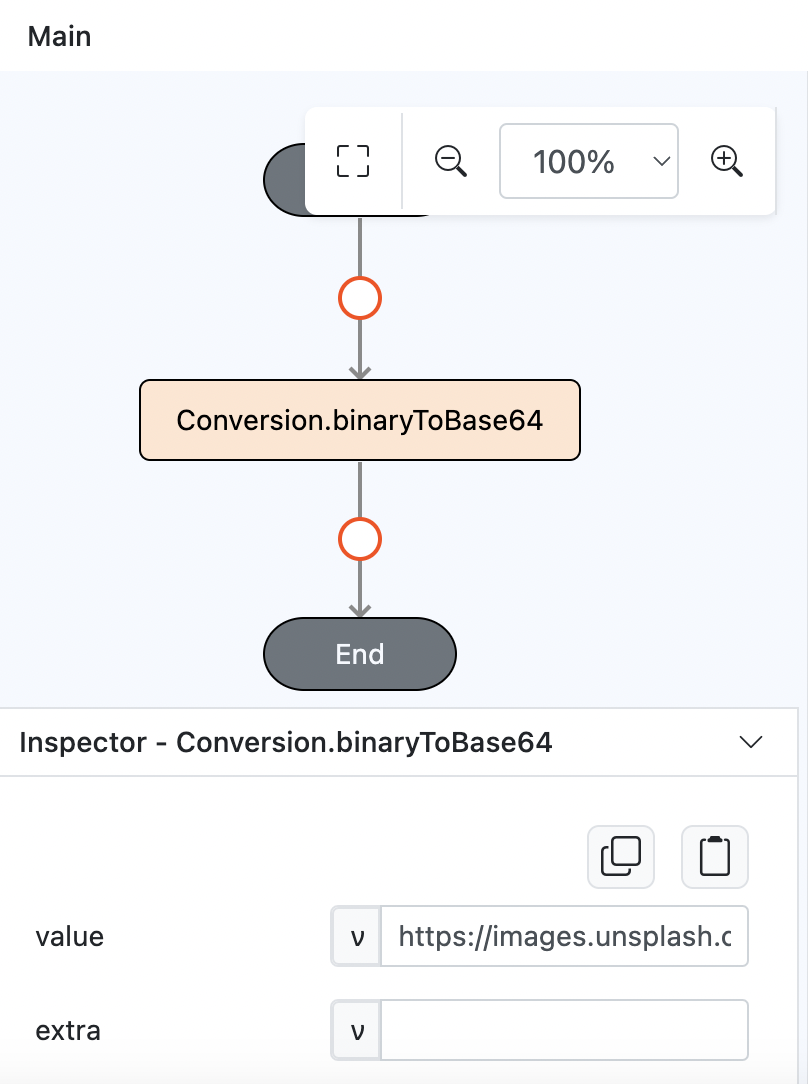
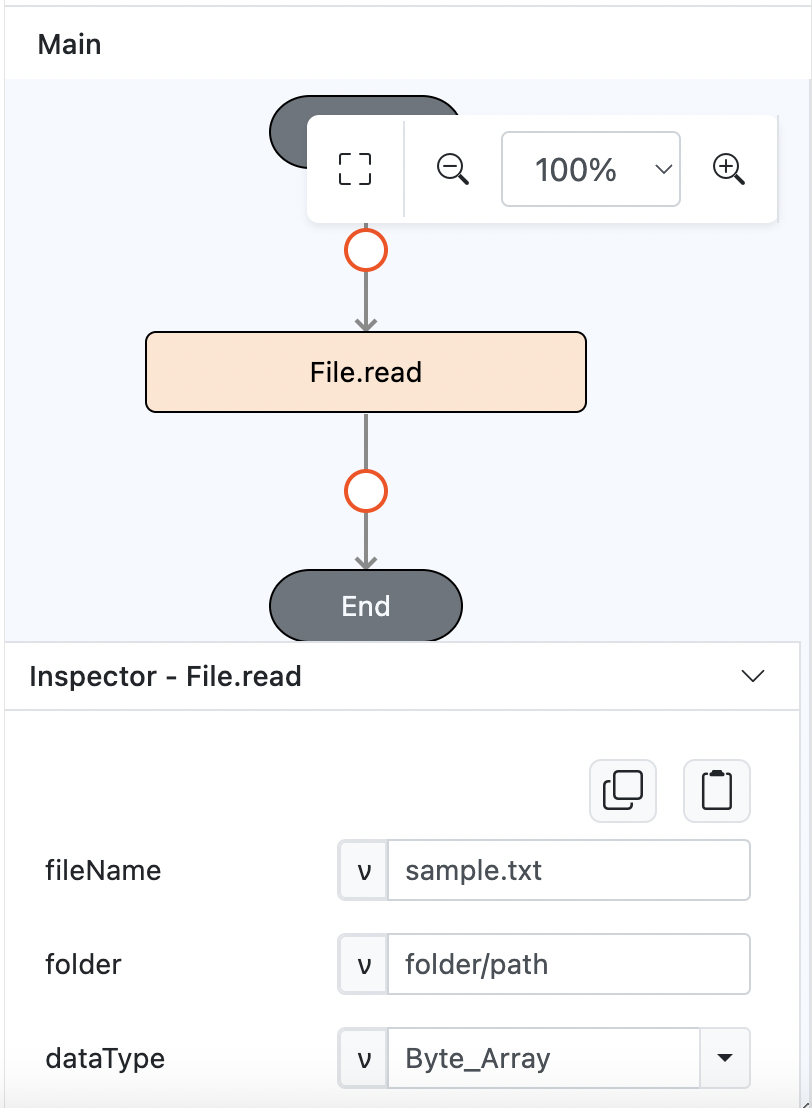
EP-1337-change the implementation of binaryToBase64 conversion

diff --git a/document/client/006-actions-and-visual-logic/action-reference/react-native/Conversion/binaryToBase64/binaryToBase64.md b/document/client/006-actions-and-visual-logic/action-reference/react-native/Conversion/binaryToBase64/binaryToBase64.md
@@ -2,20 +2,20 @@
 
 ## Description
 
-Converts binary data of image (text or list) that taken from a link / storage into a Base64 encoded string.
+Converts binary data into a Base64 encoded string.
 
 ## Input / Parameter
 
 | Name  | Description                                                             | Input Type | Default | Options | Required |
 | ----- | ----------------------------------------------------------------------- | ---------- | ------- | ------- | -------- |
-| value | The binary data to be converted to Base64. Can be a string or a list. | Text/List  | -       | -       | Yes      |
-| extra | Any additional value that is passed to all the callbacks.              | Any        | -       | -       | No       |
+| value | The binary data to be converted to Base64.                              | Byte_Array | -       | -       | Yes      |
+| extra | Any additional value that is passed to all the callbacks.               | Any        | -       | -       | No       |
 
 ## Output
 
 | Description                                 | Output Type |
 | ------------------------------------------- | ----------- |
-| Returns the formatted information.          | List      |
+| Returns the formatted information.          | Text        |
 
 ## Callback
 
@@ -33,11 +33,11 @@ The action performed if this function does not run successfully.
 
 | Description                                 | Output Type |
 | ------------------------------------------- | ----------- |
-| Returns an error message.                   | Text       |
+| Returns an error message.                   | Text        |
 
 ## Example
 
-In this example, we will convert binary data into a Base64 string when a button is pressed.
+In this example, we will convert binary data from a file into Base64 string when a button is pressed.
 
 ### Steps
 
@@ -48,17 +48,24 @@ In this example, we will convert binary data into a Base64 string when a button 
         style="width: 50%; padding: 5px;"/>
     </div>
 
-2. Select the event `press` for the button and drag the `Conversion.binaryToBase64` function to the event flow. Fill in the parameters: value (the binary data) and any extra data as needed.
+2. Select the event `press` for the button and drag the `File.read` function to the event flow. Fill in the parameters: fileName, folder, and dataType use the Byte_Array.
 
     <div style="display:flex; align-items:center; justify-content:center; background-color: #E7F1FF;">
         <img src="./binaryToBase64-step-2.png"
         style="width: 100%; padding: 5px;"/>
     </div>
 
-3. Put `Log.write` function below the `Conversion.binaryToBase64`, to get the result.
+3. On the success callback, drag the `Conversion.binaryToBase64` and Fill in value as input result from `File.read` function.
 
     <div style="display:flex; align-items:center; justify-content:center; background-color: #E7F1FF;">
         <img src="./binaryToBase64-step-3.png"
+        style="width: 100%; padding: 5px;"/>
+    </div>
+
+4. Put `Log.write` function below the success callback of `Conversion.binaryToBase64`, to get the result.
+
+    <div style="display:flex; align-items:center; justify-content:center; background-color: #E7F1FF;">
+        <img src="./binaryToBase64-step-4.png"
         style="width: 100%; padding: 5px;"/>
     </div>
 
